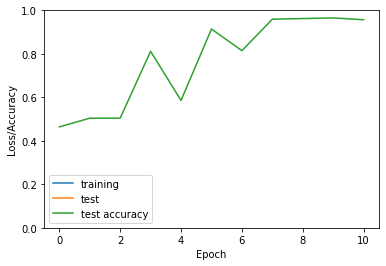
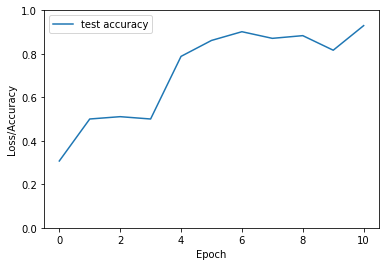
changed some small things

diff --git a/assignment7/run.py b/assignment7/run.py
@@ -12,9 +12,10 @@ dataset = tf.data.Dataset.from_generator(my_integration_task, output_signature= 
 
 number_data_points = 32000
 
-train_data = dataset.take(int(0.9 * number_data_points))
-valid_data = dataset.take(int(0.9 * number_data_points))
-dataset.skip(int(0.9 * number_data_points))
+train_data = dataset.take(int(0.8 * number_data_points))
+dataset.skip(int(0.8 * number_data_points))
+valid_data = dataset.take(int(0.1 * number_data_points))
+dataset.skip(int(0.1 * number_data_points))
 test_data = dataset.take(int(0.1 * number_data_points))
 
 train_data = train_data.apply(input_pipeline.prepare_data)
@@ -30,7 +31,7 @@ alpha = 0.1
 model = LSTM_Model()
 
 # loss function
-loss_function = K.losses.CategoricalCrossentropy()
+loss_function = K.losses.MeanSquaredError()
 
 # optimizer
 optimizer = K.optimizers.SGD(alpha)
@@ -41,7 +42,7 @@ valid_losses = []
 valid_accuracies = []
 
 # testing once before we begin
-valid_loss, valid_accuracy = training_loop.test(model, test_data, loss_function)
+valid_loss, valid_accuracy = training_loop.test(model, valid_data, loss_function)
 valid_losses.append(valid_loss)
 valid_accuracies.append(valid_accuracy)
 
@@ -73,10 +74,10 @@ for epoch in range(num_epochs):
 
 # Visualize accuracy and loss for training and test data.
 plt.figure()
-line1, = plt.plot(valid_accuracies)
+line1 = plt.plot(valid_accuracies)
 plt.xlabel("Epoch")
-plt.ylabel("Loss/Accuracy")
+plt.ylabel("Accuracy")
 plt.ylim(top = 1)
 plt.ylim(bottom = 0)
-plt.legend([line1],["test accuracy"])
+plt.legend([line1],["Validation accuracy"])
 plt.show()
